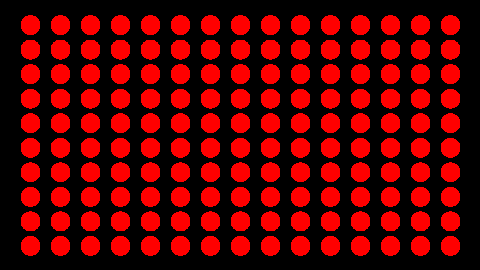
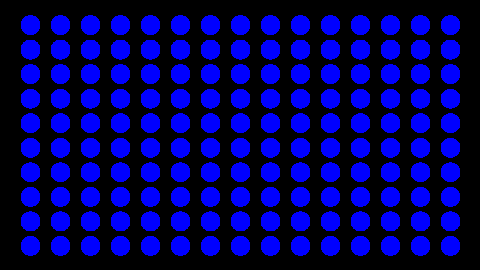
For push because forgot tag in first push

diff --git a/src/cgg/a01/Main.java b/src/cgg/a01/Main.java
@@ -3,7 +3,7 @@ package cgg.a01;
 import static cgtools.Color.*;
 
 import cgg.*;
-
+// for push with tag, forgot tag a01 while push 
 public class Main {
 
   public static void main(String[] args) {
@@ -11,9 +11,9 @@ public class Main {
     final int height = 270;
 
     // This class instance defines the contents of the image.
-    ConstantColor content = new ConstantColor(gray);
-    Circle content2 = new Circle(blue, width, height);
-    PolkaDots content3 = new PolkaDots(red, width, height, 15, 10);
+    ConstantColor content = new ConstantColor(red);
+    Circle content2 = new Circle(green, width, height);
+    PolkaDots content3 = new PolkaDots(blue, width, height, 15, 10);
 
     // Creates an image and iterates over all pixel positions inside the image.
     Image image = new Image(width, height);

diff --git a/src/cgg/a01/PolkaDots.java b/src/cgg/a01/PolkaDots.java
@@ -1,6 +1,6 @@
 package cgg.a01;
 import cgtools.*;
-
+// for push with tag, forgot tag a01 while push 
 // Represents the contents of an image. Provides the same color for all pixels.
 public class PolkaDots implements Sampler {
     Color color;

diff --git a/src/cgg/a01/Circle.java b/src/cgg/a01/Circle.java
@@ -1,7 +1,7 @@
 package cgg.a01;
 
 import cgtools.*;
-
+// for push with tag, forgot tag a01 while push 
 // Represents the contents of an image. Provides the same color for all pixels.
 public class Circle implements Sampler {
     Color color;

diff --git a/src/cgg/Image.java b/src/cgg/Image.java
@@ -1,5 +1,5 @@
 package cgg;
-
+// for push with tag, forgot tag a01 while push 
 import cgtools.*;
 
 public class Image {
